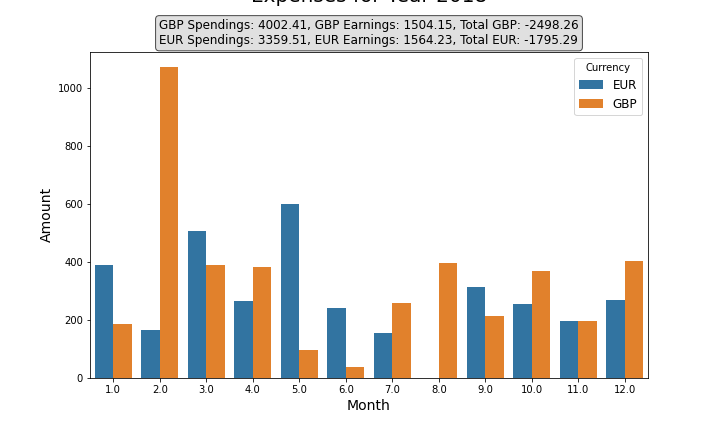
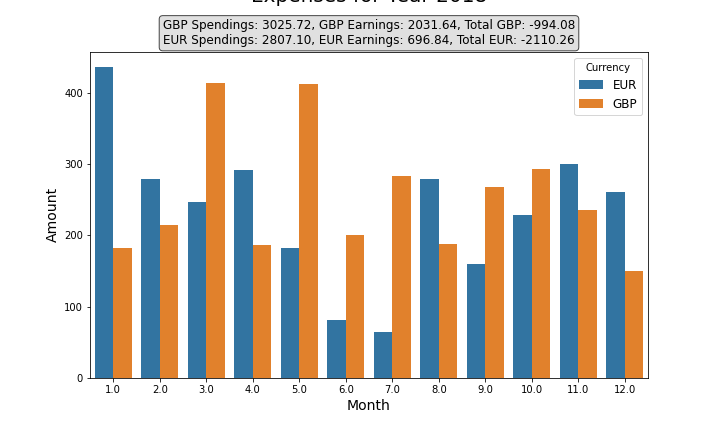
small changes to figures

Changed region(s): [[0.0611, 0.1505, 0.9167, 0.8727], [0.2139, 0.0301, 0.825, 0.1204], [0.0917, 0.6921, 0.1222, 0.7523]]

diff --git a/analysis_and_visualization.py b/analysis_and_visualization.py
@@ -4,47 +4,13 @@ import pandas as pd
 import seaborn as sns
 import numpy as np
 
-""" # Connect to your SQLite database
+# Connect to your SQLite database
 conn = sqlite3.connect('spendings.db')
 
 ### spendings   ###
 query_2 = "SELECT * FROM grouped_transactions"
-grouped_data = pd.read_sql_query(query_2, conn) """
+grouped_data = pd.read_sql_query(query_2, conn)
 
-
-
-### CREATE FAKE DATA FOR DEMONSTRATION ###
-
-data_size = 1000
-data = {
-    'Year': np.random.choice([2018,2019,2020, 2021, 2022, 2023], size=data_size),
-    'Month': pd.to_datetime(np.random.choice(pd.date_range('2018-01-01', '2023-12-31', freq='M'), size=data_size)).to_period('M'),
-    'Type': np.random.choice(['Earnings', 'Spendings'], size=data_size),
-    'Currency': np.random.choice(['EUR', 'GBP'], size=data_size),
-    'Amount': np.random.normal(loc=0, scale=100, size=data_size)  # Generate random amounts
-}
-
-# Ensure Spendings have negative amounts
-data['Amount'] = np.where(data['Type'] == 'Spendings', -np.abs(data['Amount']), data['Amount'])
-
-# Create DataFrame
-data_2 = pd.DataFrame(data)
-
-# Convert 'Year' column to string (for an easier compatibility)
-data_2['Year'] = data_2['Year'].astype(str)
-
-# Convert 'Month' column to datetime
-data_2['Month'] = pd.to_datetime(data_2['Month'].astype(str), format='%Y-%m')
-
-# Extract year and month separately
-data_2['Year'] = data_2['Month'].dt.year
-data_2['Month'] = data_2['Month'].dt.month
-
-# Group data by year, month, type, and currency, and sum the amounts for each group
-grouped_data = data_2.groupby(['Year', 'Month', 'Type', 'Currency'])['Amount'].sum().reset_index()
-
-####               ####
-#### end fake data ####
 
 # Filter data for each currency
 eur_data = grouped_data[grouped_data['Currency'] == 'EUR']
@@ -56,6 +22,9 @@ for year in grouped_data['Year'].unique():
 
     # Create a subplot for each year
     fig, ax = plt.subplots(figsize=(10, 6))
+    
+    # Set the background color of the figure
+    fig.patch.set_facecolor('white')
 
     # Plot spendings for each month
     sns.barplot(x='Month', y=year_data['Amount'].abs(), hue='Currency', data=year_data[year_data['Type'] == 'Spendings'], ax=ax,errorbar=None)

diff --git a/test_visualization.py b/test_visualization.py
@@ -46,6 +46,9 @@ for year in grouped_data['Year'].unique():
 
     # Create a subplot for each year
     fig, ax = plt.subplots(figsize=(10, 6))
+    
+    # Set the background color of the figure
+    fig.patch.set_facecolor('white')
 
     # Plot spendings for each month
     sns.barplot(x='Month', y=year_data['Amount'].abs(), hue='Currency', data=year_data[year_data['Type'] == 'Spendings'], ax=ax,errorbar=None)
